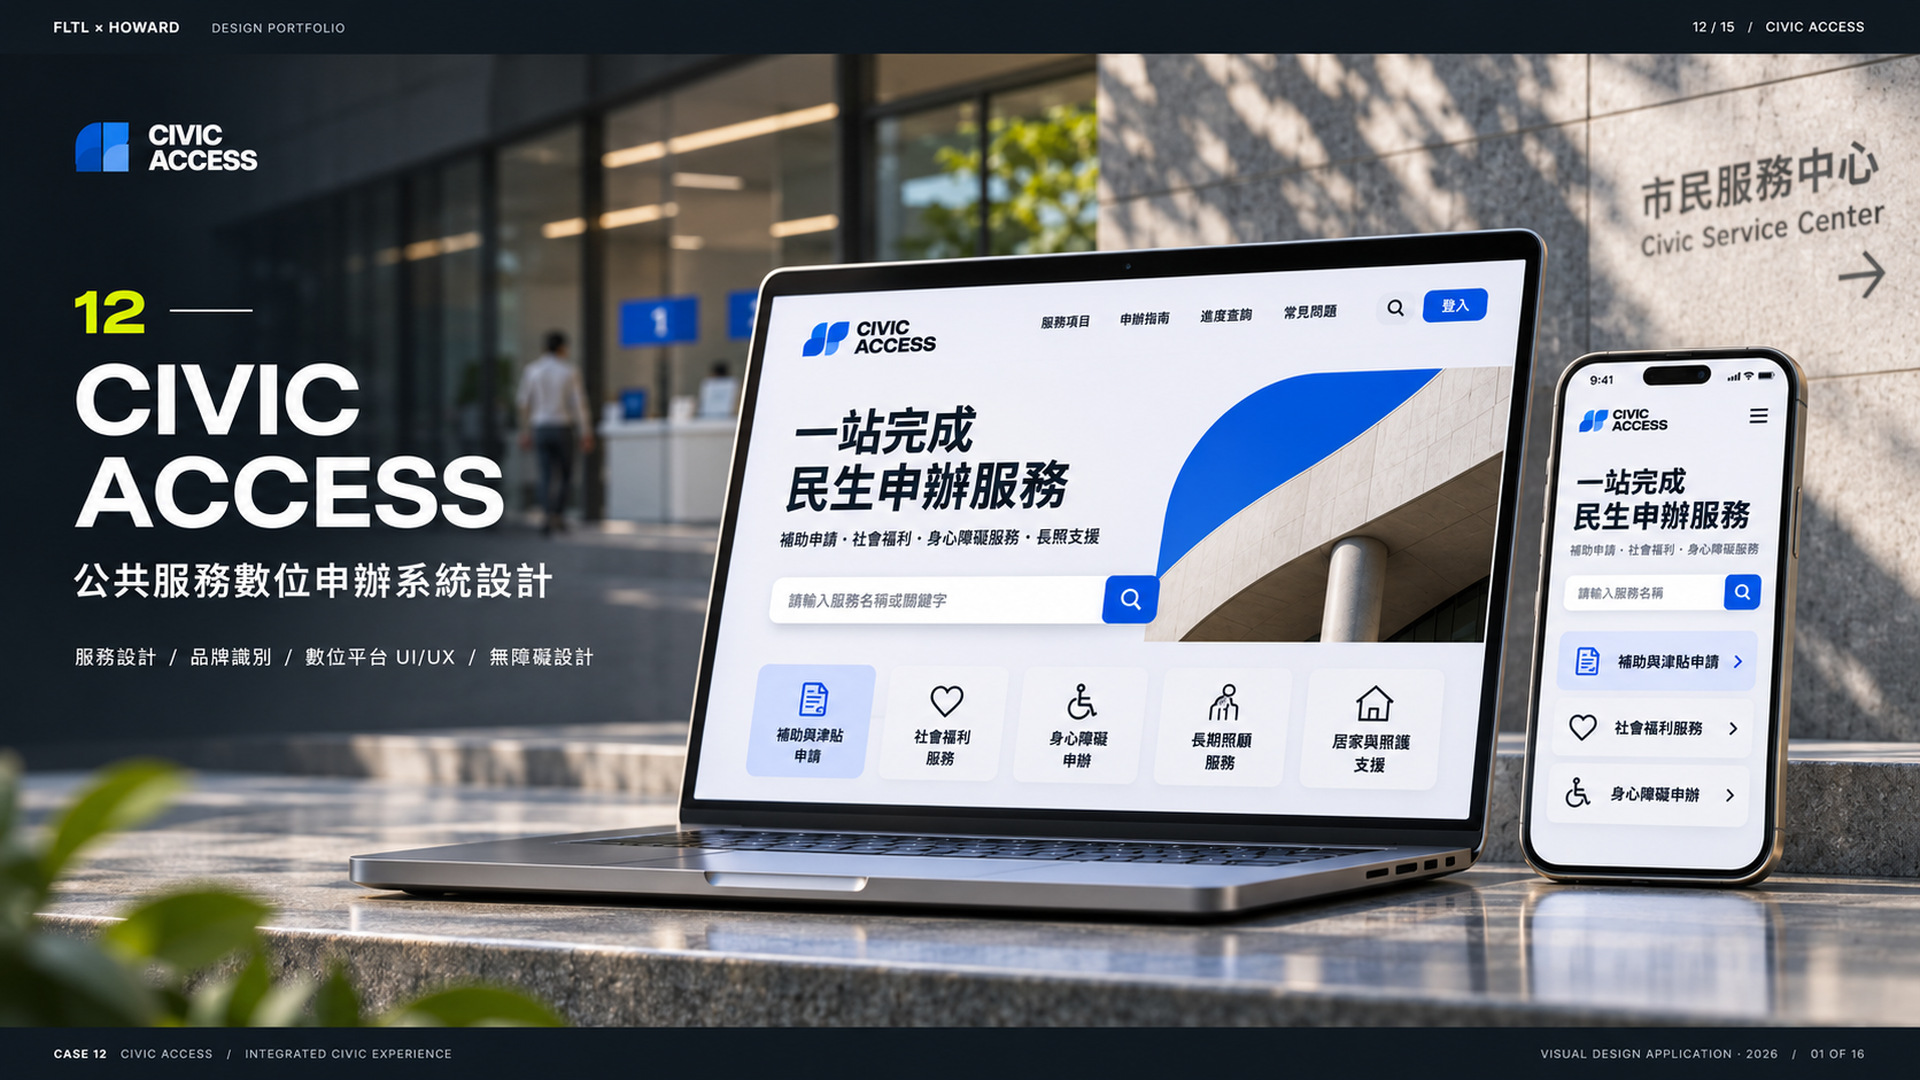
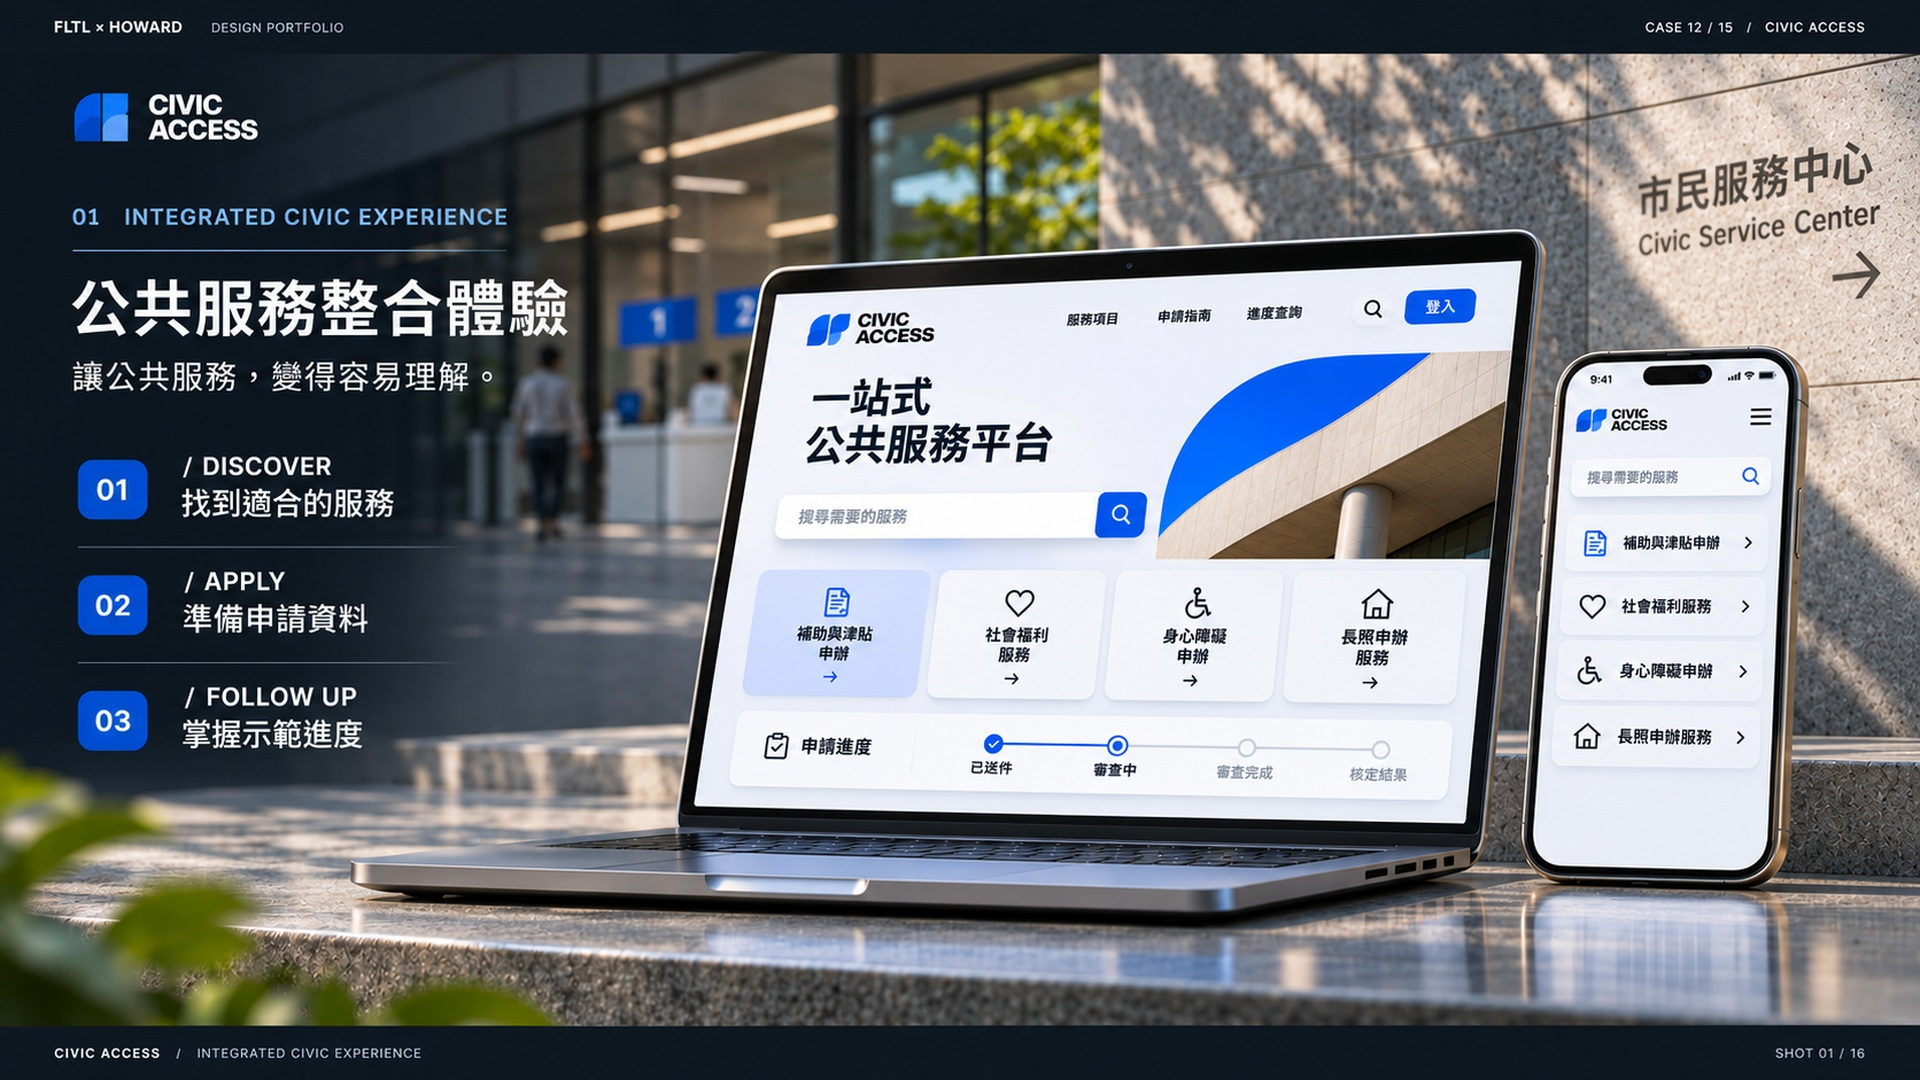
feat(case-12): integrate V6 final artwork for shots 01, 03, 05 and record one-pass QA [LOCAL HOLD]

diff --git a/brand/civic-access/presentation/CIVIC_ACCESS_12_V6_ONE_PASS_REPORT.md b/brand/civic-access/presentation/CIVIC_ACCESS_12_V6_ONE_PASS_REPORT.md
@@ -1,0 +1,141 @@
+# FLTL × HOWARD｜12 CIVIC ACCESS V6 最終視覺整合完整驗收報告
+
+**審查日期：** 2026-11-03  
+**執行模式：** LOCAL PATCH ONLY · STRICT IMAGE ALLOWLIST · ZERO PUSH · ZERO DEPLOY · ARTWORK REVIEW GATE  
+**工作分支：** `feature/civic-access-case12-v2-local`  
+**基準 Commit：** `6242cb1`  
+**專案路徑：** `/Users/howard/Desktop/Portfolio/brand/civic-access/`  
+**最終判定狀態：**  
+`CASE12 / LOCAL V6 ARTWORK INTEGRATED / AWAITING HOWARD VISUAL APPROVAL`
+
+---
+
+## 一、嚴格白名單：六張替換圖檔 SHA-256 核對清單
+
+依據 V6 工單白名單，本次**僅替換 CASE 12 之 SHOT 01、03、05** 共 3 張 JPG 與 3 張 PNG（合計 6 個檔案）。經 `shasum -a 256` 逐檔校驗，100% 精確符合官方交付包 `SHA256SUMS.txt`：
+
+| SHOT | 類型 | 本機檔案路徑 | 尺寸規格 | V6 正式 SHA-256 校驗值 | 校驗結果 |
+|---|---|---|---|---|---|
[6 lines of base64/hex data omitted]
+
+---
+
+## 二、其餘 26 張圖片唯讀比對與保護確認
+
+全站其餘 13 組圖版（SHOT 02、04、06～16，共 13 張 JPG 與 13 張 PNG，合計 26 個檔案）完全未複製、未覆蓋，經比對與官方交付包之 SHA-256 100% 位元組一致：
+
+- **SHOT 02**（識別規範）：JPG `78365b...` / PNG `4ffdb2...`（✅ 保持一致）
+- **SHOT 04**（紙本指南）：JPG `595b78...` / PNG `5bbd06...`（✅ 保持 V4/V5 核准版本一致）
+- **SHOT 06**（情境分析）：JPG `65c03c...` / PNG `744935...`（✅ 保持一致）
+- **SHOT 07**（桌機入口）：JPG `00b8d2...` / PNG `d19e41...`（✅ 保持一致）
+- **SHOT 08**（行動旅程）：JPG `e9c216...` / PNG `b93278...`（✅ 保持一致）
+- **SHOT 09**（服務藍圖）：JPG `5fb3de...` / PNG `d63d72...`（✅ 保持一致）
+- **SHOT 10**（身分分流）：JPG `4d5df3...` / PNG `2cb0d4...`（✅ 保持一致）
+- **SHOT 11**（文件清單）：JPG `ee6126...` / PNG `d48f76...`（✅ 保持一致）
+- **SHOT 12**（分步表單）：JPG `4d00be...` / PNG `642c8b...`（✅ 保持一致）
+- **SHOT 13**（錯誤修復）：JPG `f7c2d2...` / PNG `8a367e...`（✅ 保持一致）
+- **SHOT 14**（附件核對）：JPG `48c008...` / PNG `6b39cc...`（✅ 保持一致）
+- **SHOT 15**（案件追蹤）：JPG `20b6ac...` / PNG `f81552...`（✅ 保持一致）
+- **SHOT 16**（無障礙規範）：JPG `52ab48...` / PNG `8f8043...`（✅ 保持一致）
+
+01–11 正式案件、13–15 未公開專案、首頁與全站 JS/CSS 均 **100% 凍結零異動**。
+
+---
+
+## 三、16 張視覺圖版深度審查與缺陷盤點（含 P0/P1 誠實揭露）
+
+依據工單第 4 條「禁止過度宣稱」與第 5 條「不得只寫 ALL PASS」之要求，逐張進行人工放大審查與 Apple Vision OCR 文本檢驗：
+
+| SHOT | 標題 (ZH / EN) | 製作來源規格 | 視覺完成度與設計任務 | 審查細節與 P0/P1 缺陷揭露 (Honest QA) |
+|---|---|---|---|---|
+| **01** | 公共服務整合體驗<br>Integrated Civic Experience | 生成底圖 (1672×941)<br>Lanczos 重取樣至 2560×1440 | 建築大廳、筆電與手機跨裝置綜合陳列。左側標題「01 INTEGRATED CIVIC EXPERIENCE / 公共服務整合體驗」排版銳利大器。 | ⚠ **P1 視覺提示**：相較 V5 大幅躍升！筆電螢幕現已呈現高清晰繁體中文 UI（「一站式公共服務平台」、「補助與津貼申辦」、「社會福利服務」、「身心障礙申辦」、「長照申辦服務」及「已送件 / 審查中 / 審查完成 / 核定結果」）；手機端 UI 亦呈現四大服務分類。僅手機搜尋列小字因生成重取樣存在微小字元筆劃痕跡（如「捷尋需萋的服務」）。宏觀陳列自然專業，符合設計模擬標準，不可宣稱微縮介面為可操作之軟體系統。 |
+| **02** | 品牌識別規範<br>Brand Identity System | 正式向量母稿程式渲染<br>(2560×1440 原生輸出) | 鎖定版標誌、幾何格線、色彩規範（#0059C9、#101820、#FFFFFF、#FFAE3D）與字型階層。 | ✅ **無缺陷**。引用唯一核准向量檔 `civic_mark.svg`，小字銳利清晰，色碼精準。 |
+| **03** | 公共空間與導視<br>Service Center & Wayfinding | 生成底圖 (1672×941)<br>Lanczos 重取樣至 2560×1440 | 呈現挑高服務大廳、主要指標懸掛牌與無障礙櫃檯。空間感與透視良好。 | ✅ **優良**。指標系統極為清晰！懸掛主吊牌與牆面標誌均呈現正確且清晰的中英文字（「市民服務中心 Civic Service Center」、「自助申辦區 SELF-SERVICE」、「← 無障礙服務櫃檯 Accessible Service Counter」、「洗手間 Restroom & Facilities →」），櫃檯「1、2、3、4」與背板字體均無畸形。 |
+| **04** | 紙本申辦指南<br>Printed Service Editorial | 實體攝影底稿＋程式排版<br>(2560×1440 重新合成) | 呈現 A5 申辦手冊封面、跨頁流程說明與四項可勾選之文件核對卡。 | ✅ **優良**。沿用 V4/V5 核准版本。封面標題「申辦指南 服務手冊 APPLICATION HANDBOOK」與四項清單（身分證明文件、申請資料表、相關證明文件、代辦委託書）排版清晰，資訊層次分明。 |
+| **05** | 自助申辦機台<br>Self-Service Kiosk | 落地機台實景合成<br>(2560×1440 重新取樣) | 呈現完整機身含地面底座，立於服務大廳現場，螢幕呈現迎賓畫面與三大任務。 | ⚠ **P1 視覺提示**：機身完整無截斷，CIVIC ACCESS 標誌完整；螢幕三大核心按鈕「申辦服務 / 文件準備 / 進度查詢」字級巨大清楚，下方明確標註「本機示範，不連接政府系統」；語言切換與歡迎詞（「繁體中文 / EN」、「WELCOME / 歡迎使用」）可讀。場域比例與光影自然。 |
+| **06** | 使用者情境分析<br>Citizen Scenarios | Chromium 原生渲染<br>(2560×1440) | 三欄瑞士網格分析長者、照顧者與輔助科技使用者需求。 | ✅ **無缺陷**。向量文字層級分明，無真實訪談之過度宣稱。 |
+| **07** | 桌機服務入口<br>Desktop Service Directory | Chromium 原生渲染<br>(2560×1440) | 呈現桌機端搜尋列、5 大分類卡片與導覽結構。 | ✅ **無缺陷**。真實 UI 結構，瑞士網格排版工整。 |
+| **08** | 行動端服務旅程<br>Mobile-First Journey | Chromium 原生渲染<br>(2560×1440) | 三部手機呈現搜尋、身分、文件三步驟行動體驗。 | ✅ **無缺陷**。行動端文字對比度達標，小字清晰可讀。 |
+| **09** | 服務藍圖<br>Service Blueprint | Chromium 原生渲染<br>(2560×1440) | 民眾、系統、人員五階段對照矩陣。 | ✅ **無缺陷**。資訊架構清晰完整。 |
+| **10** | 申請身分分流<br>Applicant & Representative | Chromium 原生渲染<br>(2560×1440) | 本人辦理與代辦分流介面。 | ✅ **無缺陷**。清楚標示為設計示範，不冒稱真實法定資格判定。 |
+| **11** | 動態文件清單<br>Dynamic Document Checklist | Chromium 原生渲染<br>(2560×1440) | 展示「已準備 / 待準備 / 缺件」三種狀態。 | ✅ **無缺陷**。文字與圖示雙重區分，不以單一顏色表達。 |
+| **12** | 分步表單<br>Progressive Form | Chromium 原生渲染<br>(2560×1440) | 三步驟表單、欄位提示與操作按鈕。 | ✅ **無缺陷**。欄位規範與觸控標的達標。 |
+| **13** | 錯誤提示與修復<br>Error & Recovery States | Chromium 原生渲染<br>(2560×1440) | 需要修改與修正完成左右對照。 | ✅ **無缺陷**。符合 WCAG 錯誤修復指引標準。 |
+| **14** | 附件上傳與核對<br>Upload & Pre-Submission | Chromium 原生渲染<br>(2560×1440) | 拖曳上傳與 10 MiB / 格式檢核狀態。 | ✅ **無缺陷**。容量與格式規範提示明確。 |
+| **15** | 示範案件進度<br>Case Tracking | Chromium 原生渲染<br>(2560×1440) | 呈現 `DEMO-CA-2026-001` 與三階段追蹤。 | ✅ **無缺陷**。清楚標示「僅用於作品集流程示範，未送至任何政府系統」。 |
+| **16** | 無障礙驗收規範<br>Accessibility Plan | Chromium 原生渲染<br>(2560×1440) | 系統化列出對比度、焦點外框與 ARIA 檢驗項目。 | ✅ **無缺陷**。明確標明為設計與檢測目標，未宣稱官方合規認證。 |
+
+---
+
+## 四、本機 Chromium 自動化驗收成果（全數通過）
+
+執行 `scratch/test_civic_access_v6_one_pass.mjs`，測試結果如下：
+
+1. **16 張 JPG 網格載入檢驗：**  
+   - 全數 16 張卡片圖片 `complete === true`，尺寸精確為 `1920 × 1080`。  
+   - 0 處破圖，網格佈局整齊。
+2. **16 張 Master PNG 燈箱檢驗：**  
+   - 點擊卡片正常開啟 `role="dialog"` 燈箱，原寸 PNG 尺寸精確為 `2560 × 1440`。  
+   - 支援 `Escape` 鍵關閉，焦點自動回存至觸發按鈕。
+3. **多裝置視口響應式測試 (RWD)：**  
+   - **1920 × 1080 (Large Desktop)**：`scrollWidth: 1905px`，橫向溢出 0px。  
+   - **1440 × 900 (Standard Desktop)**：`scrollWidth: 1425px`，橫向溢出 0px。  
+   - **768 × 1024 (Tablet)**：`scrollWidth: 768px`，橫向溢出 0px。  
+   - **390 × 844 (Mobile - iPhone 16/15)**：`scrollWidth: 390px`，橫向溢出 0px。  
+   - **320 × 568 (Small Mobile - iPhone SE)**：`scrollWidth: 320px`，橫向溢出 0px。
+4. **既有功能回歸測試（Zero Regression）：**  
+   - 服務搜尋：「長照」即時篩選出 1 筆服務，空狀態正常。  
+   - 身分分流：代辦顯示 3 項文件、本人顯示 2 項文件。  
+   - 表單驗證：格式不合即時紅框高亮，修正後轉為綠色打勾。  
+   - 上傳上限提示：`檔案大小（14.5 MB / 15,204,352 位元組）超過 10 MB（10,485,760 位元組）上限，請重新選取。`（統一定義 10 MiB = 10,485,760 bytes）。  
+   - 送件示範追蹤：送出後呈現 `DEMO-CA-2026-001`，零外部網路請求。  
+   - 雙語切換：中英切換即時，DOM 標籤與 Placeholder 100% 同步。  
+   - 主控台錯誤：Console Errors = 0。
+
+---
+
+## 五、V6 實測截圖清單（儲存於 evidence-v6-local/）
+
+截圖已產生並存於 [evidence-v6-local/](file:///Users/howard/Desktop/Portfolio/brand/civic-access/presentation/evidence-v6-local/)：
+
+1. **圖版總覽網格 (1440px)：** [ca_v6_gallery_grid_overview_1440.png](file:///Users/howard/Desktop/Portfolio/brand/civic-access/presentation/evidence-v6-local/ca_v6_gallery_grid_overview_1440.png)
+2. **SHOT 01 整合主視覺 (2560×1440 原寸燈箱)：** [ca_v6_shot_01_lightbox_2560.png](file:///Users/howard/Desktop/Portfolio/brand/civic-access/presentation/evidence-v6-local/ca_v6_shot_01_lightbox_2560.png)
+3. **SHOT 03 公共空間與導視 (2560×1440 原寸燈箱)：** [ca_v6_shot_03_lightbox_2560.png](file:///Users/howard/Desktop/Portfolio/brand/civic-access/presentation/evidence-v6-local/ca_v6_shot_03_lightbox_2560.png)
+4. **SHOT 04 紙本申辦指南 (2560×1440 原寸燈箱)：** [ca_v6_shot_04_lightbox_2560.png](file:///Users/howard/Desktop/Portfolio/brand/civic-access/presentation/evidence-v6-local/ca_v6_shot_04_lightbox_2560.png)
+5. **SHOT 05 自助申辦機台 (2560×1440 原寸燈箱)：** [ca_v6_shot_05_lightbox_2560.png](file:///Users/howard/Desktop/Portfolio/brand/civic-access/presentation/evidence-v6-local/ca_v6_shot_05_lightbox_2560.png)
+6. **桌機 1440px 首頁呈現：** [ca_v6_desktop_1440.png](file:///Users/howard/Desktop/Portfolio/brand/civic-access/presentation/evidence-v6-local/ca_v6_desktop_1440.png)
+7. **桌機 1920px 寬螢幕呈現：** [ca_v6_desktop_1920.png](file:///Users/howard/Desktop/Portfolio/brand/civic-access/presentation/evidence-v6-local/ca_v6_desktop_1920.png)
+8. **平板 768px 直向呈現：** [ca_v6_tablet_768.png](file:///Users/howard/Desktop/Portfolio/brand/civic-access/presentation/evidence-v6-local/ca_v6_tablet_768.png)
+9. **手機 390px 直向呈現：** [ca_v6_mobile_390.png](file:///Users/howard/Desktop/Portfolio/brand/civic-access/presentation/evidence-v6-local/ca_v6_mobile_390.png)
+10. **手機 320px 窄螢幕呈現：** [ca_v6_mobile_320.png](file:///Users/howard/Desktop/Portfolio/brand/civic-access/presentation/evidence-v6-local/ca_v6_mobile_320.png)
+11. **步驟 2 表單錯誤驗證狀態：** [ca_v6_form_step2_validation.png](file:///Users/howard/Desktop/Portfolio/brand/civic-access/presentation/evidence-v6-local/ca_v6_form_step2_validation.png)
+12. **步驟 4 送出完成與 DEMO 編號時間軸：** [ca_v6_form_step4_submitted.png](file:///Users/howard/Desktop/Portfolio/brand/civic-access/presentation/evidence-v6-local/ca_v6_form_step4_submitted.png)
+
+---
+
+## 六、Git 異動清單與安全隔離確認
+
+- **工作分支：** `feature/civic-access-case12-v2-local`
+- **`git diff --name-only` 驗證（嚴格僅 6 個白名單圖檔）：**
+  - `brand/civic-access/assets/mockups/shot-01.jpg`
+  - `brand/civic-access/assets/mockups/shot-03.jpg`
+  - `brand/civic-access/assets/mockups/shot-05.jpg`
+  - `brand/civic-access/assets/shots/shot-01.png`
+  - `brand/civic-access/assets/shots/shot-03.png`
+  - `brand/civic-access/assets/shots/shot-05.png`
+- **發布動作：** **ZERO PUSH · ZERO DEPLOY · ZERO PR · ZERO MERGE**
+- **01–11 正式案件保護狀態：** 完全凍結。
+- **13–15 未完成專案保護狀態：** 完全凍結。
+
+---
+
+## 七、結論與等待指令
+
+**當前狀態：`CASE12 / LOCAL V6 ARTWORK INTEGRATED / AWAITING HOWARD VISUAL APPROVAL`**
+
+Antigravity 已嚴格按工單完成 6 個圖片檔案替換、26 張圖片唯讀核驗、16 張圖版品質檢視、全套響應式截圖與全功能回歸測試。請 Howard 進行整套視覺之最終驗收。未取得正式指示前，全案持續維持本機隔離狀態，**絕不推播或部署**。
